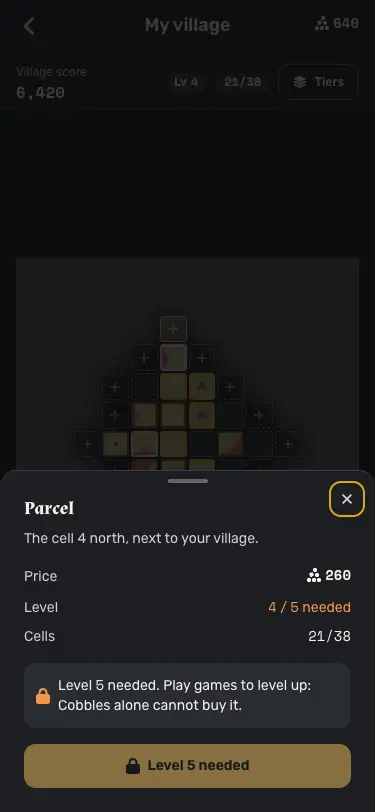
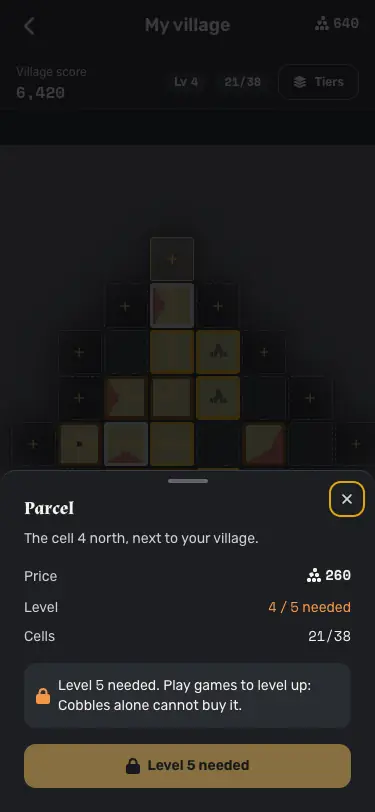
VILLAGE-SCREEN: the first tap after a drag counts; 44 px board cells
A drag released anywhere but on its own card is followed by no click, so the
flag that swallows the drag's closing click is set only for a release over
that card (and dropped right after). The board's cells keep the 44 px touch
floor: past what the screen holds, the board scrolls, opening on its middle.
Captures retaken.

Changed region(s): [[0.1467, 0.3387, 0.7627, 0.585]]

diff --git a/packages/app/src/components/containers/village-board.tsx b/packages/app/src/components/containers/village-board.tsx
@@ -1,4 +1,4 @@
-import { useId, type ReactNode } from "react";
+import { useId, useLayoutEffect, useRef, type ReactNode } from "react";
 import type { BoardTile } from "@paved/chain";
 import { cn } from "../../lib/utils";
 import { TierBase } from "../elements/tier-base";
@@ -39,6 +39,9 @@ export interface VillageBoardProps {
   onCopy?: (tile: BoardTile) => void;
   className?: string;
 }
+
+/** A cell's least width with its gap: the 44 px touch floor and the grid's 2 px gap. */
+const MIN_CELL = 46;
 
 /** The rings of fogged ground drawn around the clear cells. */
 const FOG_RINGS = 2;
@@ -82,6 +85,15 @@ export function cellName(c: Cell): string {
  * pointer. Shared with the PvP flow (#647): the attack draws the defender's territory with it (`parcels` off).
  */
 export function VillageBoard({ village, fog = "village", parcels = false, parcel, placing, over, tileArt, onParcel, onPlace, onCopy, className }: VillageBoardProps) {
+  const scroller = useRef<HTMLDivElement>(null);
+  // A board wider than the screen opens on its middle, where the village is.
+  const extent = village.cells.length;
+  useLayoutEffect(() => {
+    const el = scroller.current;
+    if (!el) return;
+    el.scrollLeft = (el.scrollWidth - el.clientWidth) / 2;
+    el.scrollTop = (el.scrollHeight - el.clientHeight) / 2;
+  }, [extent]);
   const owned = new Set(village.cells.map(cellKey));
   const buyable = parcels ? buyableCells(village.cells) : [];
   const buyableKeys = new Set(buyable.map(cellKey));
@@ -218,12 +230,19 @@ export function VillageBoard({ village, fog = "village", parcels = false, parcel
   }
 
   return (
-    <div className={cn("grid size-full place-items-center overflow-hidden bg-board p-4", className)}>
+    // `safe center`: a board wider than the screen scrolls from its edge, not from a centre cut off on both sides.
+    <div ref={scroller} className={cn("grid size-full overflow-auto bg-board p-4", className)} style={{ placeItems: "safe center" }}>
       <div
         role={placing || buyable.length ? "group" : "img"}
         aria-label={`Village of ${village.cells.length} cells and ${village.tiles.length} tiles`}
-        className="relative grid w-full max-w-[min(100%,70dvh)] gap-0.5"
-        style={{ gridTemplateColumns: `repeat(${cols}, 1fr)`, gridTemplateRows: `repeat(${rows}, 1fr)`, aspectRatio: `${cols} / ${rows}` }}
+        className="relative grid shrink-0 gap-0.5"
+        style={{
+          gridTemplateColumns: `repeat(${cols}, 1fr)`,
+          gridTemplateRows: `repeat(${rows}, 1fr)`,
+          aspectRatio: `${cols} / ${rows}`,
+          // Every cell keeps the 44 px touch floor: past what the screen holds, the board scrolls.
+          width: `max(${cols * MIN_CELL}px, min(100%, 70dvh))`,
+        }}
       >
         {cells}
         {fog === "village" && <FogVeil clear={clearList} minX={minX} maxY={maxY} cols={cols} rows={rows} />}

diff --git a/packages/app/src/components/scenes/village-scene.tsx b/packages/app/src/components/scenes/village-scene.tsx
@@ -104,7 +104,7 @@ export function VillageScene({
   const [chosenParcel, setChosenParcel] = useState<Cell | null>(initialParcel);
   const [tiers, setTiers] = useState(initialTiers);
   const [drag, setDrag] = useState<{ index: number; x: number; y: number; over: Cell | null } | null>(null);
-  const press = useRef<{ index: number; x: number; y: number; moved: boolean } | null>(null);
+  const press = useRef<{ index: number; x: number; y: number; moved: boolean; source: HTMLElement } | null>(null);
   const tapAfterDrag = useRef(false);
   const stop = useRef<(() => void) | null>(null);
   useEffect(() => () => stop.current?.(), []);
@@ -149,7 +149,7 @@ export function VillageScene({
   const startDrag = (index: number, e: ReactPointerEvent<HTMLButtonElement>) => {
     if (e.button !== 0) return;
     stop.current?.();
-    press.current = { index, x: e.clientX, y: e.clientY, moved: false };
+    press.current = { index, x: e.clientX, y: e.clientY, moved: false, source: e.currentTarget };
     const move = (ev: PointerEvent) => {
       const p = press.current;
       if (!p) return;
@@ -163,7 +163,13 @@ export function VillageScene({
       press.current = null;
       stop.current?.();
       if (!p?.moved) return;
-      tapAfterDrag.current = true;
+      // Only a release over its own card is followed by a click on it: that click is the drag's end, not a tap. Released
+      // anywhere else, no click comes, and the next tap must count. The timer drops the flag once the click had its chance.
+      const target = document.elementFromPoint?.(ev.clientX, ev.clientY);
+      if (target && p.source.contains(target)) {
+        tapAfterDrag.current = true;
+        setTimeout(() => (tapAfterDrag.current = false), 0);
+      }
       setDrag(null);
       if (dropped) drop(p.index, cellUnder(ev.clientX, ev.clientY));
     };

diff --git a/packages/app/__tests__/village.test.tsx b/packages/app/__tests__/village.test.tsx
@@ -116,6 +116,30 @@ describe("Scenes/Village", () => {
     expect(onPlace).toHaveBeenCalledWith(expect.objectContaining({ plan: REWARD.plans[0], x: legal.x, y: legal.y }));
   });
 
+  it("counts the first tap after a drag released on the board, and not the click that ends a drag on its own card", async () => {
+    render(wrap(<VillageScene {...VILLAGE.reward} />));
+    const cards = () => within(screen.getByRole("list", { name: "Reward tiles" })).getAllByRole("button");
+    const original = document.elementFromPoint;
+    const dragTo = (card: HTMLElement, under: Element | null) => {
+      fireEvent.pointerDown(card, { button: 0, clientX: 10, clientY: 10 });
+      document.elementFromPoint = () => under;
+      try {
+        fireEvent.pointerMove(window, { clientX: 100, clientY: 100 });
+        fireEvent.pointerUp(window, { clientX: 100, clientY: 100 });
+      } finally {
+        document.elementFromPoint = original;
+      }
+    };
+    // Released over the board, off any cell: no click follows on the card, so the next tap selects at once.
+    dragTo(cards()[0]!, document.querySelector("[data-cell]"));
+    await userEvent.click(cards()[1]!);
+    expect(cards()[1]).toHaveAttribute("aria-pressed", "true");
+    // Released on its own card: the click that follows is the drag's end, not a tap.
+    dragTo(cards()[2]!, cards()[2]!);
+    fireEvent.click(cards()[2]!);
+    expect(cards()[2]).toHaveAttribute("aria-pressed", "false");
+  });
+
   it("greys out a tile that fits nowhere and has nothing to copy onto", () => {
     render(wrap(<VillageScene {...VILLAGE.rewardCramped} />));
     const tiles = within(screen.getByRole("list", { name: "Reward tiles" })).getAllByRole("button");
